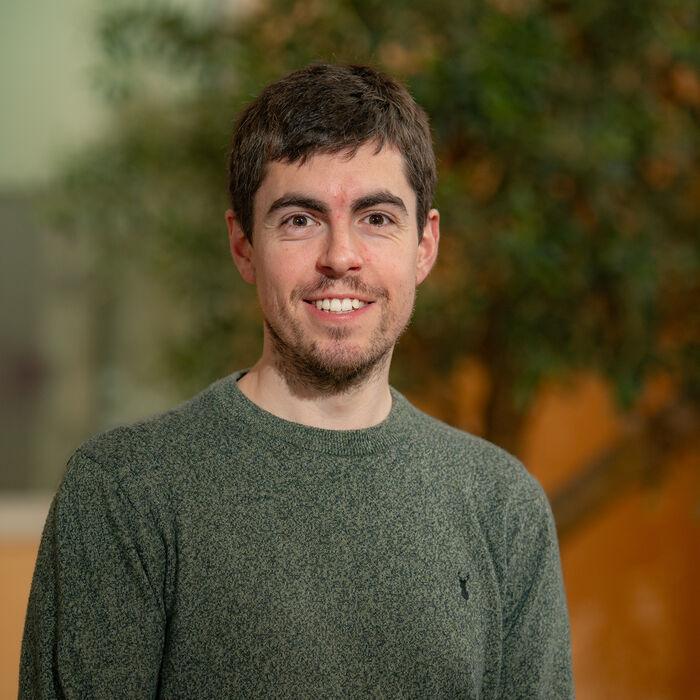
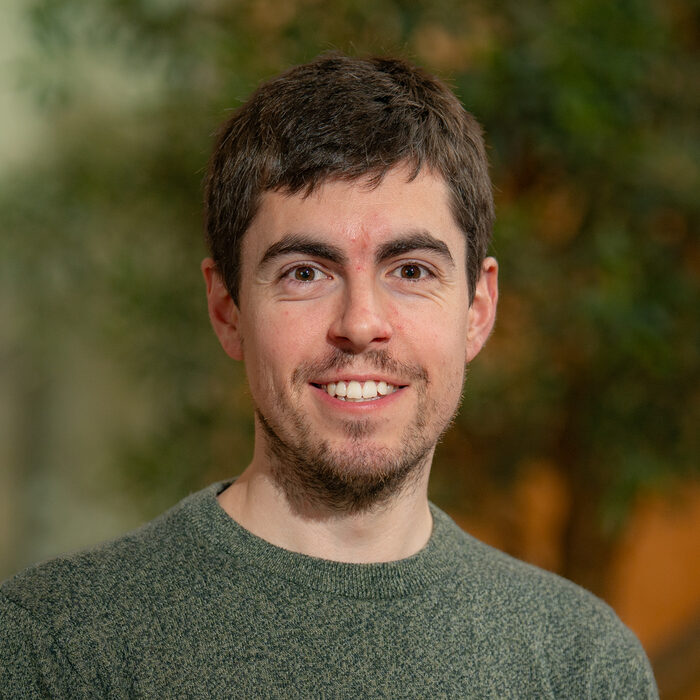
Add Senior Lecturer, graduation and ERC visit news; update photos
Senior Lecturer title from 1 Sept 2025, first PhD graduates, ERC In
Conversation event, Lab3 photo, tighter headshot crop, LinkedIn link,
and neutral wording about the lab photos.

Claude-Session: https://claude.ai/code/session_01YAbrz2pf6TZ9ZZJvVKEdMA

diff --git a/src/data/site.ts b/src/data/site.ts
@@ -18,7 +18,7 @@ export const SITE = {
   profiles: {
     qub: 'https://www.qub.ac.uk/schools/mdbs/Research/find-a-phd-supervisor/dr-david-courtney.html',
     pure: 'https://pure.qub.ac.uk/en/persons/david-courtney',
-    linkedin: '',
+    linkedin: 'https://www.linkedin.com/in/davidgcourtney-rna/',
     orcid: 'https://orcid.org/0000-0002-0677-1194',
     scholar: '',
     x: 'https://x.com/TheCourtneyLab',

diff --git a/src/content/team/david-courtney.md b/src/content/team/david-courtney.md
@@ -1,6 +1,6 @@
 ---
 name: Dr David Courtney
-role: Principal Investigator · Lecturer and ERC Research Fellow
+role: Principal Investigator · Senior Lecturer in Molecular Virology
 group: Principal Investigator
 order: 1
 photo: /images/david-square.jpg
@@ -8,6 +8,7 @@ film: To be added
 links:
   email: david.courtney@qub.ac.uk
   orcid: https://orcid.org/0000-0002-0677-1194
+  linkedin: https://www.linkedin.com/in/davidgcourtney-rna/
 ---
 
-David has been fascinated by how viruses replicate and manipulate their hosts since early in his career. After a degree in Biomedical Sciences with a year at GlaxoSmithKline and a PhD in molecular biology at Ulster University, he held postdoctoral posts at Duke University and Institut Pasteur, supported by a Marie Skłodowska-Curie Global Fellowship. He set up The Courtney Group at Queen's University Belfast in 2021 with an ERC Starting Grant. He is a STEM NI Ambassador and a Fellow of the Winston Churchill Memorial Trust.
+David has been fascinated by how viruses replicate and manipulate their hosts since early in his career. After a degree in Biomedical Sciences with a year at GlaxoSmithKline and a PhD in molecular biology at Ulster University, he held postdoctoral posts at Duke University and Institut Pasteur, supported by a Marie Skłodowska-Curie Global Fellowship. He set up The Courtney Group at Queen's University Belfast in 2021 with an ERC Starting Grant, and was promoted to Senior Lecturer in 2025. He is a STEM NI Ambassador and a Fellow of the Winston Churchill Memorial Trust.

diff --git a/src/content/news/2026-erc-visit-in-conversation.md b/src/content/news/2026-erc-visit-in-conversation.md
@@ -1,0 +1,16 @@
+---
+title: Hosting the European Research Council in Belfast
+date: 2026-06-25
+summary: David hosted an "In Conversation" event with Nobel Laureate Professor Emmanuelle Charpentier and Professor Teresa Lambe OBE during the ERC Scientific Council's first visit to Northern Ireland.
+tags: [Conferences, Citizenship]
+image: /images/erc-in-conversation-2026.jpg
+imageAlt: David Courtney with guests in the Great Hall at Queen's University Belfast during the European Research Council visit
+---
+
+In June 2026, Queen's University Belfast welcomed the European Research Council for its 105th plenary meeting, the first visit of the ERC Scientific Council to Northern Ireland.
+
+As an ERC grantee, David hosted the fireside conversation in the University's Great Hall with **Nobel Laureate Professor Emmanuelle Charpentier** and **Professor Teresa Lambe OBE**, a key architect of the Oxford-AstraZeneca COVID-19 vaccine. The evening followed a research and innovation showcase of Queen's ERC-funded projects at One Elmwood.
+
+ERC President Professor Maria Leptin joined guests including the UK Government's Chief Scientific Adviser at DSIT, Professor Chris Johnson, and NI Minister Andrew Muir MLA.
+
+[Read the Queen's news story](https://www.qub.ac.uk/News/Allnews/2026/QueenshostsEuropeanResearchCouncilinlandmarkvisittoBelfast.html)

diff --git a/src/content/news/lab-over-the-years.md b/src/content/news/lab-over-the-years.md
@@ -1,14 +1,16 @@
 ---
 title: The lab over the years
 date: 2026-10-07
-summary: From a handful of people outside the Wellcome-Wolfson Institute to the bigger group we are today. A look back at our team photos.
+summary: Faces change as students graduate and new people join, but the spirit of the group stays the same. A look back at our team photos.
 tags: [Lab life]
-image: /images/lab2.jpg
-imageAlt: Members of The Courtney Group standing together on a city street
+image: /images/lab3.jpg
+imageAlt: The Courtney Group on a hike in the mountains
 ---
 
 Every lab has its team photos. Here are a few of ours, in the order they were taken.
 
-![The early team outside the Wellcome-Wolfson Institute for Experimental Medicine](/images/lab1.jpg)
+![The team outside the Wellcome-Wolfson Institute for Experimental Medicine](/images/lab1.jpg)
 
-![The group a few years later](/images/lab2.jpg)
+![The team together on a city street](/images/lab2.jpg)
+
+![The team on a hike in the mountains](/images/lab3.jpg)

diff --git a/src/content/news/2025-first-phd-graduates.md b/src/content/news/2025-first-phd-graduates.md
@@ -1,0 +1,14 @@
+---
+title: Congratulations to our first PhD graduates
+date: 2025-06-26
+summary: Dr Stefano Bonazza and Dr Hannah Coutts, the first two PhD students in The Courtney Group, graduated from Queen's University Belfast.
+tags: [Graduations]
+image: /images/graduation-2025.jpg
+imageAlt: David Courtney with Dr Stefano Bonazza and Dr Hannah Coutts in their graduation robes at Queen's University Belfast
+---
+
+On 26 June 2025, **Dr Stefano Bonazza** and **Dr Hannah Coutts**, the first two PhD students to join the lab, graduated from Queen's University Belfast.
+
+Both are authors on our papers on MKRN2 and influenza mRNA trafficking (*PLoS Pathogens*, 2024) and on Myoferlin and late-stage vRNP trafficking (*Nature Communications*, 2026).
+
+Congratulations, Drs Bonazza and Coutts. We are very proud of you.

diff --git a/src/content/news/2025-senior-lecturer.md b/src/content/news/2025-senior-lecturer.md
@@ -1,0 +1,12 @@
+---
+title: David promoted to Senior Lecturer
+date: 2025-09-01
+summary: David's promotion to Senior Lecturer in Molecular Virology at Queen's University Belfast became official on 1 September 2025.
+tags: [Awards]
+image: /images/david.jpg
+imageAlt: Dr David Courtney
+---
+
+We are delighted to share that David has been promoted to **Senior Lecturer** at Queen's University Belfast, effective from 1 September 2025.
+
+Thank you to everyone in the group, past and present, whose work has been part of the journey since the lab opened in 2021.
